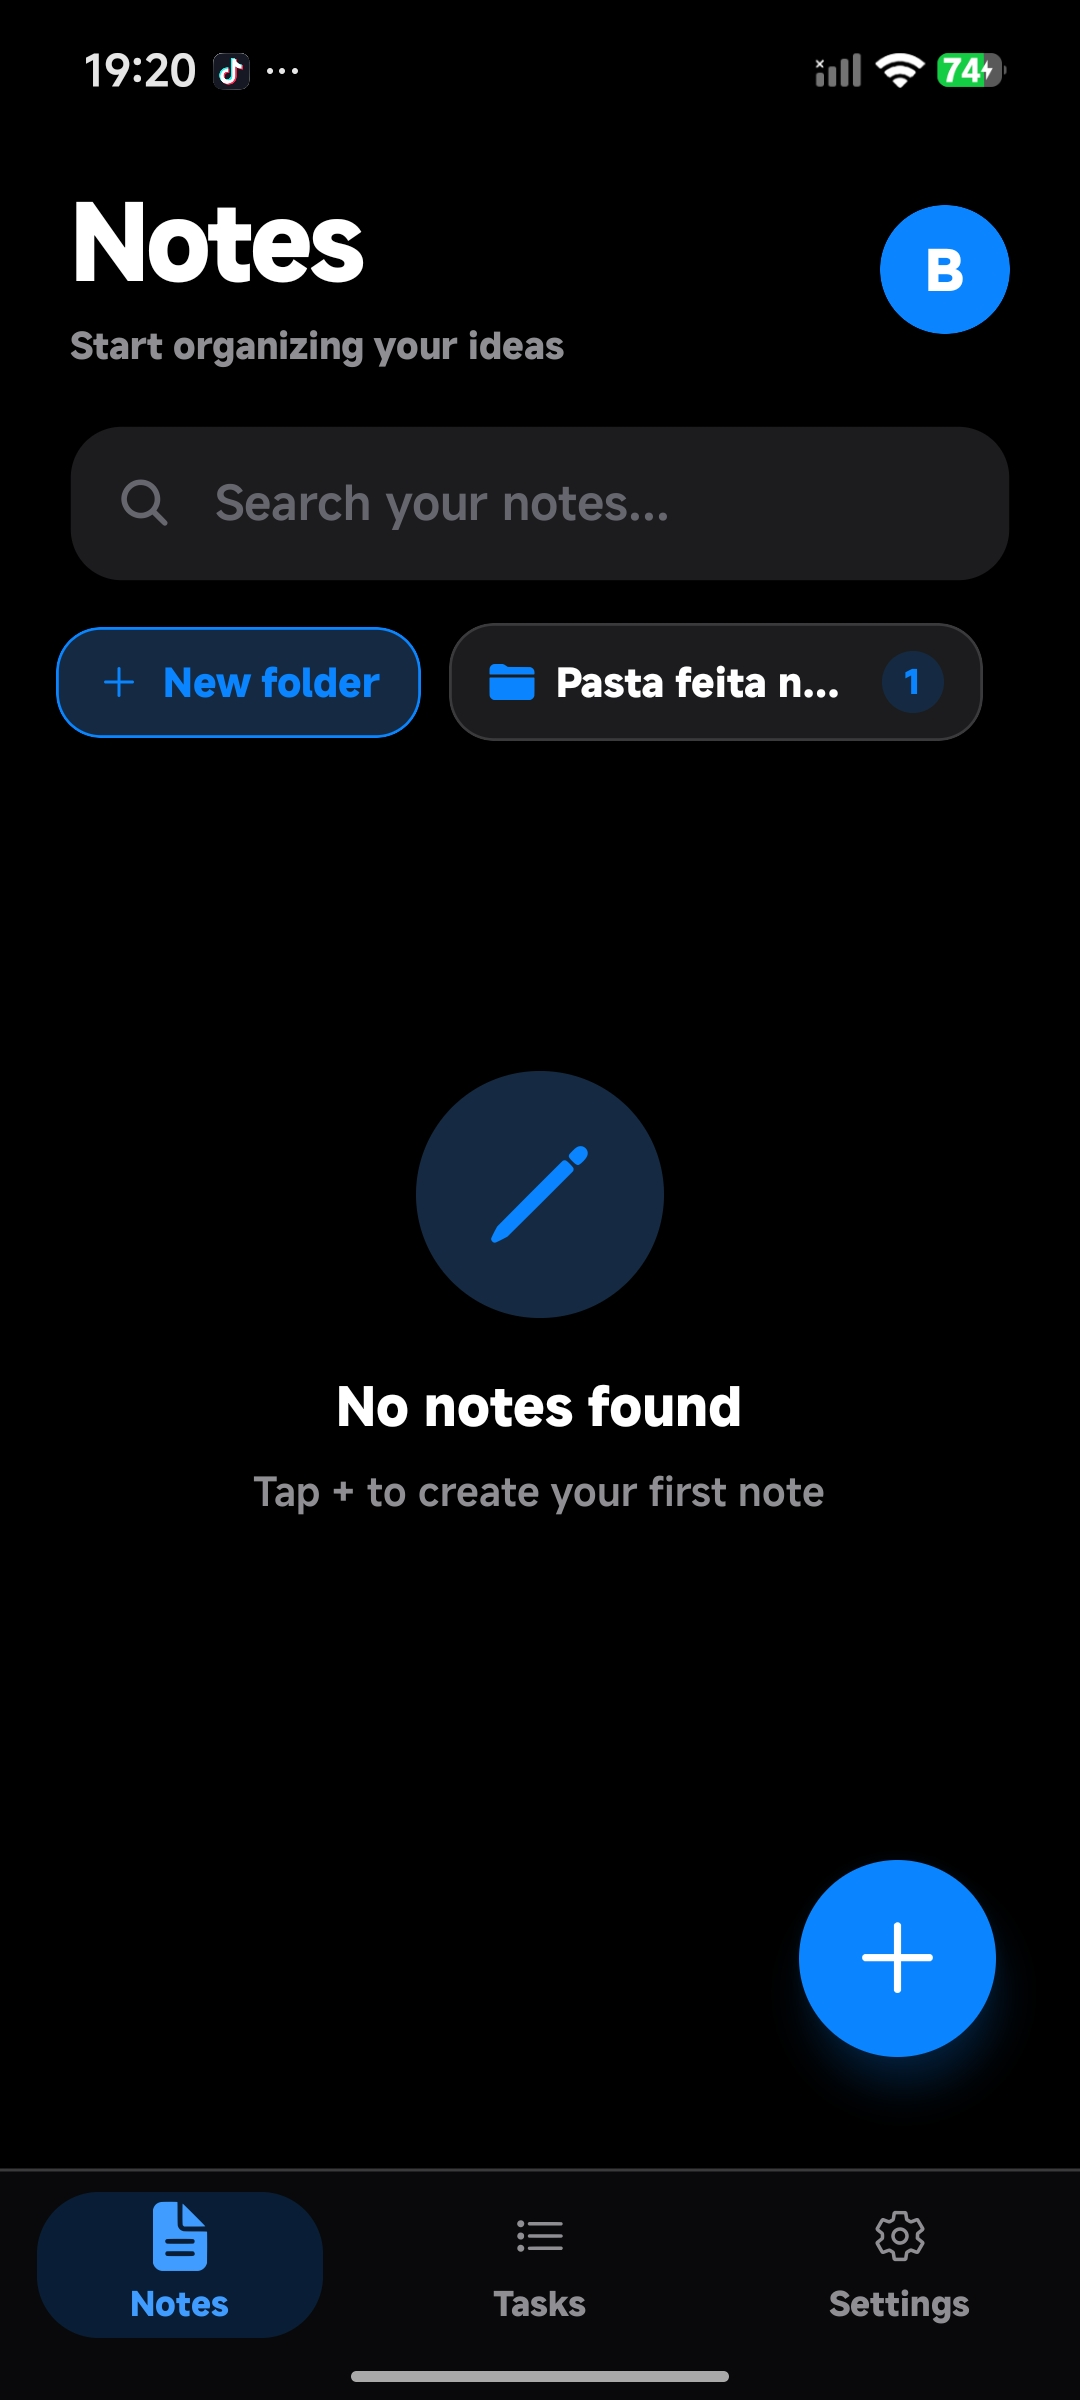
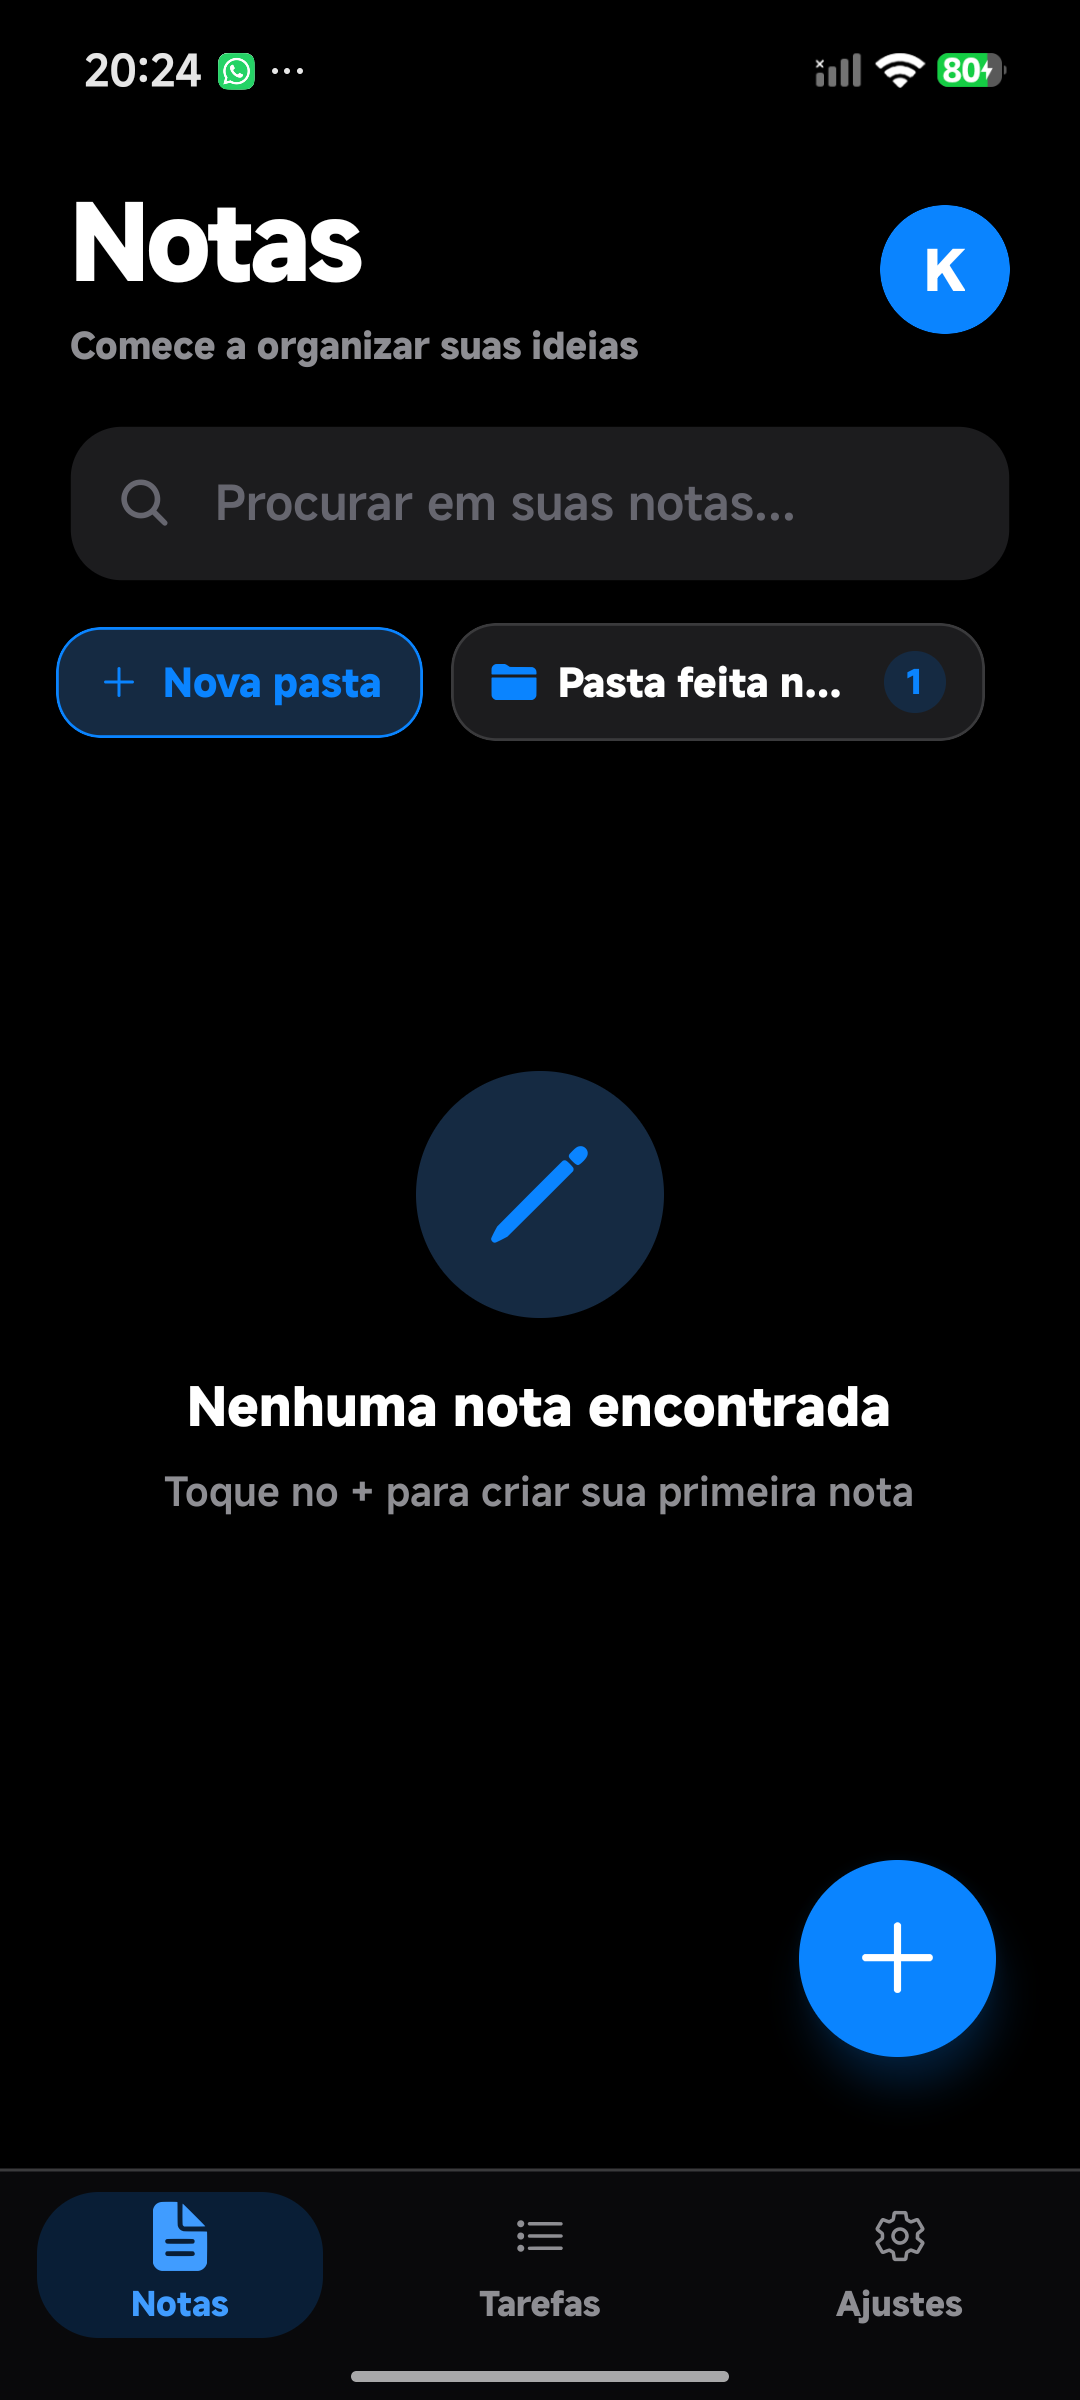
fix visual: artefato borda premium, barra titulo duplicada no windows, overline sem quebra, hero 1 celular com print real (UI falsa removida)

diff --git a/site-notas/index.html b/site-notas/index.html
@@ -77,6 +77,7 @@ header{padding:150px 0 0}
 .hero{display:grid;grid-template-columns:1.05fr .95fr;gap:56px;align-items:center}
 .overline{font:600 .72rem var(--mono);letter-spacing:.14em;color:var(--acc2);text-transform:uppercase;margin-bottom:18px;display:flex;align-items:center;gap:10px}
 .overline::before{content:"";width:22px;height:1px;background:var(--acc)}
+.overline{white-space:nowrap}
 h1{font-size:clamp(2.6rem,5.4vw,4.1rem);font-weight:800;line-height:1.04;letter-spacing:-.035em;margin-bottom:22px}
 h1 em{font-style:normal;color:var(--acc)}
 .hero-sub{color:var(--mut);font-size:1.06rem;max-width:520px;margin-bottom:30px}
@@ -87,31 +88,18 @@ h1 em{font-style:normal;color:var(--acc)}
 .btn-primary:hover{background:#0a74e0;transform:translateY(-1px)}
 .btn-ghost{border-color:var(--line2);color:var(--txt)}
 .btn-ghost:hover{border-color:var(--acc);color:var(--acc2)}
-.trust{display:flex;gap:10px;flex-wrap:wrap}
-.trust span{font:500 .7rem var(--mono);color:var(--mut2);letter-spacing:.06em;border:1px solid var(--line);border-radius:6px;padding:5px 10px;white-space:nowrap}
+.trust{display:flex;gap:8px;flex-wrap:wrap}
+.trust span{font:500 .68rem var(--mono);color:var(--mut2);letter-spacing:.05em;border:1px solid var(--line);border-radius:6px;padding:4px 9px;white-space:nowrap}
 .trust span b{color:var(--mut);font-weight:600}
 
 /* phone */
 .phone-wrap{display:flex;justify-content:center;position:relative}
-.phone-back{position:absolute;right:calc(50% - 200px);top:26px;transform:rotate(7deg) scale(.92);opacity:.5;filter:saturate(.8);z-index:-1;animation-delay:-3.5s}
-@media(max-width:880px){.phone-back{display:none}}
+
+@media(max-width:880px){}
 .phone{width:288px;aspect-ratio:9/19;border-radius:38px;border:1px solid var(--line2);background:#0d0d0f;padding:8px;box-shadow:0 40px 90px -30px rgba(0,0,0,.9),0 0 70px -30px rgba(10,132,255,.22);position:relative}
 .phone-screen{width:100%;height:100%;border-radius:30px;overflow:hidden;background:#000;position:relative}
 .phone-screen img{width:100%;height:100%;object-fit:cover}
-.phone-ui{position:absolute;inset:0;display:flex;flex-direction:column;background:#000;color:#fff;padding:14px 14px 0}
-.pu-status{display:flex;justify-content:space-between;font:600 .58rem var(--sans);color:rgba(255,255,255,.8)}
-.pu-title{font-weight:800;font-size:1.3rem;letter-spacing:-.02em;margin-top:10px}
-.pu-search{margin-top:8px;background:#131315;border:1px solid #232326;border-radius:10px;padding:7px 10px;font-size:.58rem;color:#7c7c82}
-.pu-notas{display:flex;flex-direction:column;gap:8px;margin-top:10px}
-.pu-nota{background:#131315;border:1px solid #232326;border-radius:12px;padding:9px 11px}
-.pu-nota b{font-size:.66rem;font-weight:700;display:block}
-.pu-nota span{font-size:.55rem;color:#7c7c82;display:block;margin-top:2px}
-.pu-fab{position:absolute;right:14px;bottom:54px;width:42px;height:42px;border-radius:12px;background:var(--acc);display:flex;align-items:center;justify-content:center}
-.pu-fab i{width:18px;height:18px;color:#fff}
-.pu-tabbar{position:absolute;left:0;right:0;bottom:0;background:#09090b;border-top:1px solid rgba(255,255,255,.06);display:flex;justify-content:space-around;padding:8px 0 12px}
-.pu-tab{display:flex;flex-direction:column;align-items:center;gap:2px;font-size:.48rem;font-weight:600;color:#7c7c82}
-.pu-tab i{width:14px;height:14px}
-.pu-tab.ativa{color:var(--acc)}
+/* phone-ui removido: print real no lugar */
 
 /* ===== strip specs ===== */
 .strip{border-top:1px solid var(--line);border-bottom:1px solid var(--line);margin-top:90px;background:rgba(255,255,255,.014)}
@@ -201,8 +189,8 @@ h2{font-size:clamp(1.7rem,3.4vw,2.3rem);font-weight:750;letter-spacing:-.03em;li
 .vs-head .vs-cell:last-child{color:var(--ok)}
 
 /* ===== desktop ===== */
-.win-mock{border:1px solid var(--line2);border-radius:12px;overflow:hidden;background:#0d0d0f;box-shadow:0 40px 80px -30px rgba(0,0,0,.85),0 0 60px -30px rgba(10,132,255,.18)}
-.win-shot img{width:100%;height:auto;display:block}
+.win-mock{border:1px solid var(--line2);border-radius:14px;overflow:hidden;background:#0d0d0f;box-shadow:0 40px 80px -30px rgba(0,0,0,.85),0 0 60px -30px rgba(10,132,255,.18)}
+.win-shot-img,.win-mock img{width:100%;height:auto;display:block}
 .win-bar{display:flex;align-items:center;gap:8px;background:#131316;border-bottom:1px solid var(--line);padding:10px 14px}
 .win-dot{width:11px;height:11px;border-radius:50%}
 .win-title{font:500 .72rem var(--mono);color:var(--mut2);margin-left:8px}
@@ -273,10 +261,9 @@ footer{border-top:1px solid var(--line);padding:52px 0 36px;background:rgba(255,
 .marquee-track span i{width:12px;height:12px;color:var(--acc);flex-shrink:0}
 @keyframes marq{to{transform:translateX(-50%)}}
 .marquee:hover .marquee-track{animation-play-state:paused}
-/* borda animada no price */
+/* borda superior do price (estática, limpa) */
 .price-card{position:relative}
-@keyframes orbit{to{transform:rotate(1turn)}}
-.price-card::before{content:"";position:absolute;inset:-1px;border-radius:17px;padding:1px;background:conic-gradient(from var(--a,0deg),transparent 0 30%,rgba(255,214,10,.5) 50%,transparent 70% 100%);-webkit-mask:linear-gradient(#000 0 0) content-box,linear-gradient(#000 0 0);-webkit-mask-composite:xor;mask-composite:exclude;animation:orbit 6s linear infinite;pointer-events:none;opacity:.8}
+.price-card::before{content:"";position:absolute;top:0;left:24px;right:24px;height:1px;background:linear-gradient(90deg,transparent,rgba(255,214,10,.55),transparent)}
 /* stagger bento */
 .bento .b-card:nth-child(2n){transition-delay:.07s}
 .bento .b-card:nth-child(3n){transition-delay:.14s}
@@ -343,7 +330,7 @@ footer{border-top:1px solid var(--line);padding:52px 0 36px;background:rgba(255,
 <header>
   <div class="wrap hero">
     <div class="rv">
-      <div class="overline" data-i18n="hero_badge">Notas · Listas · Tarefas · Sync PC — Celular</div>
+      <div class="overline" data-i18n="hero_badge">Notas · Listas · Tarefas · Sync</div>
       <h1><span data-i18n="hero_h1a">Simple Notes</span> <em data-i18n="hero_h1b">Pro</em></h1>
       <p class="hero-sub" data-i18n="hero_sub">Backup automático no <b>seu</b> Google Drive, encriptado com AES-256 antes de sair do aparelho. No celular e no PC, sempre sincronizados.</p>
       <div class="hero-actions">
@@ -358,30 +345,9 @@ footer{border-top:1px solid var(--line);padding:52px 0 36px;background:rgba(255,
       </div>
     </div>
     <div class="phone-wrap rv">
-      <div class="phone phone-back">
-        <div class="phone-screen">
-          <img src="print-celular-2.jpg" alt="" onerror="this.parentNode.parentNode.style.display='none'">
-        </div>
-      </div>
       <div class="phone">
         <div class="phone-screen">
           <img src="print-celular.jpg" alt="Simple Notes Pro no Android" onerror="this.remove()">
-          <div class="phone-ui">
-            <div class="pu-status"><span>9:41</span><span>5G</span></div>
-            <div class="pu-title">Notas</div>
-            <div class="pu-search">Procurar em suas notas...</div>
-            <div class="pu-notas">
-              <div class="pu-nota"><b>Lista do mercado</b><span>Arroz, feijão, café...</span></div>
-              <div class="pu-nota"><b>Ideias do app</b><span>Tema escuro OLED e azul...</span></div>
-              <div class="pu-nota"><b>Treino concluído</b><span>Segunda e quinta, 7h</span></div>
-            </div>
-            <div class="pu-fab"><i data-lucide="plus"></i></div>
-            <div class="pu-tabbar">
-              <span class="pu-tab ativa"><i data-lucide="notebook-pen"></i>Notas</span>
-              <span class="pu-tab"><i data-lucide="list-checks"></i>Tarefas</span>
-              <span class="pu-tab"><i data-lucide="settings"></i>Ajustes</span>
-            </div>
-          </div>
         </div>
       </div>
     </div>
@@ -642,15 +608,7 @@ footer{border-top:1px solid var(--line);padding:52px 0 36px;background:rgba(255,
       <p class="sec-sub" data-i18n="desk_sub">O mesmo app, a mesma conta, o mesmo backup. Inicia com o Windows e fica na bandeja com os alarmes ativos.</p>
     </div>
     <div class="win-mock rv">
-      <div class="win-bar">
-        <span class="win-dot" style="background:#FF5F57"></span>
-        <span class="win-dot" style="background:#FEBC2E"></span>
-        <span class="win-dot" style="background:#28C840"></span>
-        <span class="win-title">Simple Notes Pro</span>
-      </div>
-      <div class="win-shot">
-        <img src="print-pc.png" alt="Simple Notes Pro no Windows" onerror="this.remove()">
-      </div>
+      <img class="win-shot-img" src="print-pc.png" alt="Simple Notes Pro no Windows" onerror="this.remove()">
     </div>
     <div class="desk-feats">
       <div class="desk-feat rv"><h4><i data-lucide="power"></i><span data-i18n="desk_c1_t">Inicia com o Windows</span></h4><p data-i18n="desk_c1_d">Ligou o PC? Já está aberto na bandeja — alarmes tocam na hora, mesmo em segundo plano.</p></div>
@@ -771,7 +729,7 @@ var I18N={
   pt:{
     title:'Simple Notes Pro | Notas com backup encriptado no Google Drive',
     nav_recursos:'Recursos',nav_dif:'Diferenciais',nav_cri:'Criptografia',nav_premium:'Premium',nav_faq:'FAQ',nav_baixar:'Baixar',nav_downloads:'Downloads',
-    hero_badge:'Notas · Listas · Tarefas · Sync PC — Celular',
+    hero_badge:'Notas · Listas · Tarefas · Sync',
     hero_h1a:'Simple Notes',hero_h1b:'Pro',
     hero_sub:'Notas, listas e tarefas com backup automático no <b>seu</b> Google Drive — encriptado com AES-256 antes de sair do aparelho. Funciona no Android e no Windows, sempre sincronizados.',
     cta_download:'Baixar agora',cta_features:'Ver recursos',
@@ -872,7 +830,7 @@ var I18N={
   },  en:{
     title:'Simple Notes Pro | Notes with encrypted Google Drive backup',
     nav_recursos:'Features',nav_dif:'Highlights',nav_cri:'Encryption',nav_premium:'Premium',nav_faq:'FAQ',nav_baixar:'Download',nav_downloads:'Downloads',
-    hero_badge:'Notes · Lists · Tasks · PC — Phone Sync',
+    hero_badge:'Notes · Lists · Tasks · Sync',
     hero_h1a:'Simple Notes',hero_h1b:'Pro',
     hero_sub:'Notes, lists and tasks with automatic backup to <b>your</b> Google Drive — encrypted with AES-256 before leaving the device. Works on Android and Windows, always in sync.',
     cta_download:'Download now',cta_features:'See features',
@@ -973,7 +931,7 @@ var I18N={
   },  es:{
     title:'Simple Notes Pro | Notas con respaldo encriptado en Google Drive',
     nav_recursos:'Funciones',nav_dif:'Destacados',nav_cri:'Cifrado',nav_premium:'Premium',nav_faq:'FAQ',nav_baixar:'Descargar',nav_downloads:'Descargas',
-    hero_badge:'Notas · Listas · Tareas · Sync PC — Celular',
+    hero_badge:'Notas · Listas · Tareas · Sync',
     hero_h1a:'Simple Notes',hero_h1b:'Pro',
     hero_sub:'Notas, listas y tareas con respaldo automático en <b>tu</b> Google Drive — encriptado con AES-256 antes de salir del aparato. Funciona en Android y Windows, siempre sincronizados.',
     cta_download:'Descargar ahora',cta_features:'Ver funciones',
